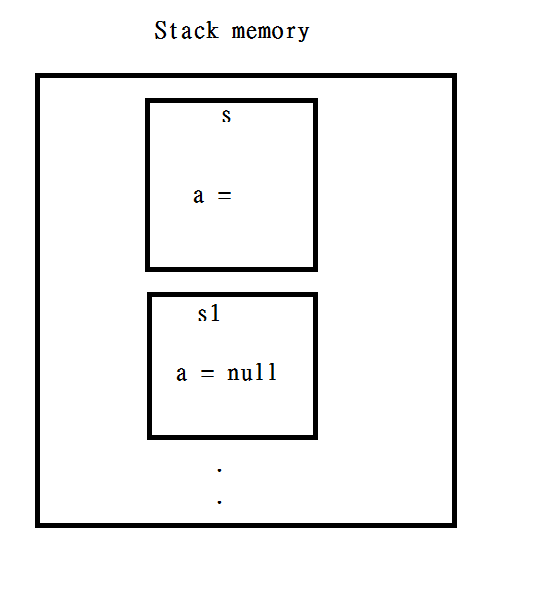
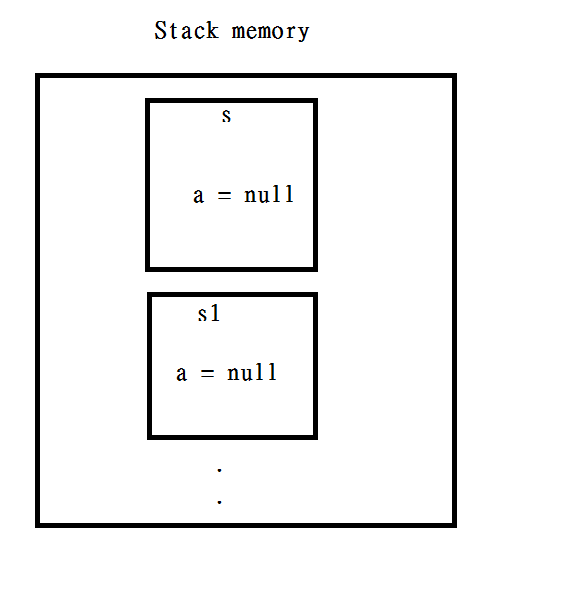
add img

diff --git a/src/Samples/StructAndClass/README.md b/src/Samples/StructAndClass/README.md
@@ -15,7 +15,7 @@
 
 ---
 
-## 使用幾個簡單範例來說明
+## 幾個範例來說明：Struct和Class存放記憶體位置
 
     public class ClassA
     {
@@ -27,6 +27,10 @@
         public ClassA a { get; set; }
     }
 
+## (Struct)範例一：
+
+`Equals` 方法比較存放在*Stack*執行個體是否一樣
+
 創建兩個 *Struct* 物件，並且比較可以得到 **True**
 
     [TestMethod]
@@ -37,11 +41,13 @@
         Assert.IsTrue(s.Equals(s1));
     }
 
-創建兩個 *Struct* 物件，並且比較可以得到 **True**
+`s`和`s1`的 Value都是一樣
 
-`Equals` 方法比較存放在*Stack*執行個體是否一樣
+如下圖：
 
-`s`和`s1`都是 `StructType`
+![Img](img/struct2.png)
+
+## (Struct)範例二：
 
     [TestMethod]
     public void StructEquals2()
@@ -53,6 +59,14 @@
 
         Assert.AreEqual(s.Equals(s1),false);
     }
+
+`s.a`動態配置一個記憶體位置 而 `s1.a`並沒有 
+
+所以兩個的Value不一樣
+
+如下圖：
+
+![Img](img/struct1.png)
 
     [TestMethod]
     public void StructEquals3()
@@ -68,8 +82,45 @@
         Assert.IsTrue(s.Equals(s1));
     }
 
+宣告一個物件 `aObj` 並把 `s.a`,`s1.a`都指向他
+
+所以兩個的Value一樣
+
+如圖：
+
+![Img](img/struct3.png)
 
 
-*Struct*和*Class*牽扯一些記憶體位置細節想了解可看看小弟之前寫的 [記憶體Heap，Stack解說][1] 
+    [TestMethod]
+    public void ClassEqualsTest()
+    {
+        ClassType c = new ClassType();
+        ClassType c1 = new ClassType();
 
-  [1]: https://dotblogs.com.tw/daniel/2017/10/20/174725        "Heap 參考類型 V.S Stack 值類型 ??"
+        Assert.AreEqual(c.Equals(c1),false);
+    }
+
+可看到`c`和`c1`都指向不同記憶體位置
+
+`AreEqual`方法比較 Stack上指向記憶體位置是否相同
+
+**結果是不同!!**
+
+如圖：
+
+![Img](img/struct4.png)
+
+---
+
+## 小結
+
+Heap和Stack記憶體存放方式在其他語言中都是通用的概念，可說相當重要！！
+
+另外如果想了解更多*Struct*和*Class*細節可看看小弟之前寫的 [記憶體Heap，Stack解說][1] 
+
+
+[Github連結][2] 
+
+
+  [1]: https://dotblogs.com.tw/daniel/2017/10/20/174725        "Heap 參考類型 V.S Stack 值類型 ??" 
+  [2]: https://github.com/isdaniel/BlogSample/tree/master/src/Samples/StructAndClass     "Github連結"
